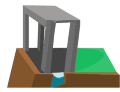
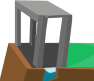
Cropped big jump and bug fixes

diff --git a/src/prefabs/Obstacle.js b/src/prefabs/Obstacle.js
@@ -6,20 +6,6 @@ class Obstacle extends Phaser.GameObjects.Sprite {
         scene.add.existing(this);   
 
         this.type = type;
-
-        if(type == 0){ //mud puddle
-            this.texture = 'defaultTexture';
-        }
-        else if(type == 1){
-            this.texture = 'defaultTexture';
-        }
-        else if(type == 2){
-            this.texture = 'defaultTexture';
-        }
-        else{
-            console.error("Invalid obstacle type attempted instatiation");
-        }
-        
         
     }
 
@@ -34,7 +20,7 @@ class Obstacle extends Phaser.GameObjects.Sprite {
         var random = Math.floor(Math.random() * 300); //creates either 0, 1, or 3
 
         this.x = 640 + random;
-        this.y = 360;
+        this.y = 370;
         this.active = true;
         console.log("Obstacle " + this.type + " movement begun");
     }

diff --git a/src/prefabs/Horse.js b/src/prefabs/Horse.js
@@ -14,7 +14,7 @@ class Horse extends Phaser.GameObjects.Sprite {
         if(this.immune){
             //while its immune, itll have a timer that when it reaches a target, will disable immune
             this.immuneTimer += delta;
-            if(this.immuneTimer >= 1300 / speedModifier){
+            if(this.immuneTimer >= 1200 / speedModifier){
                 this.immune = false;
                 this.immuneTimer = -1;
                 console.log("No longer immune");
